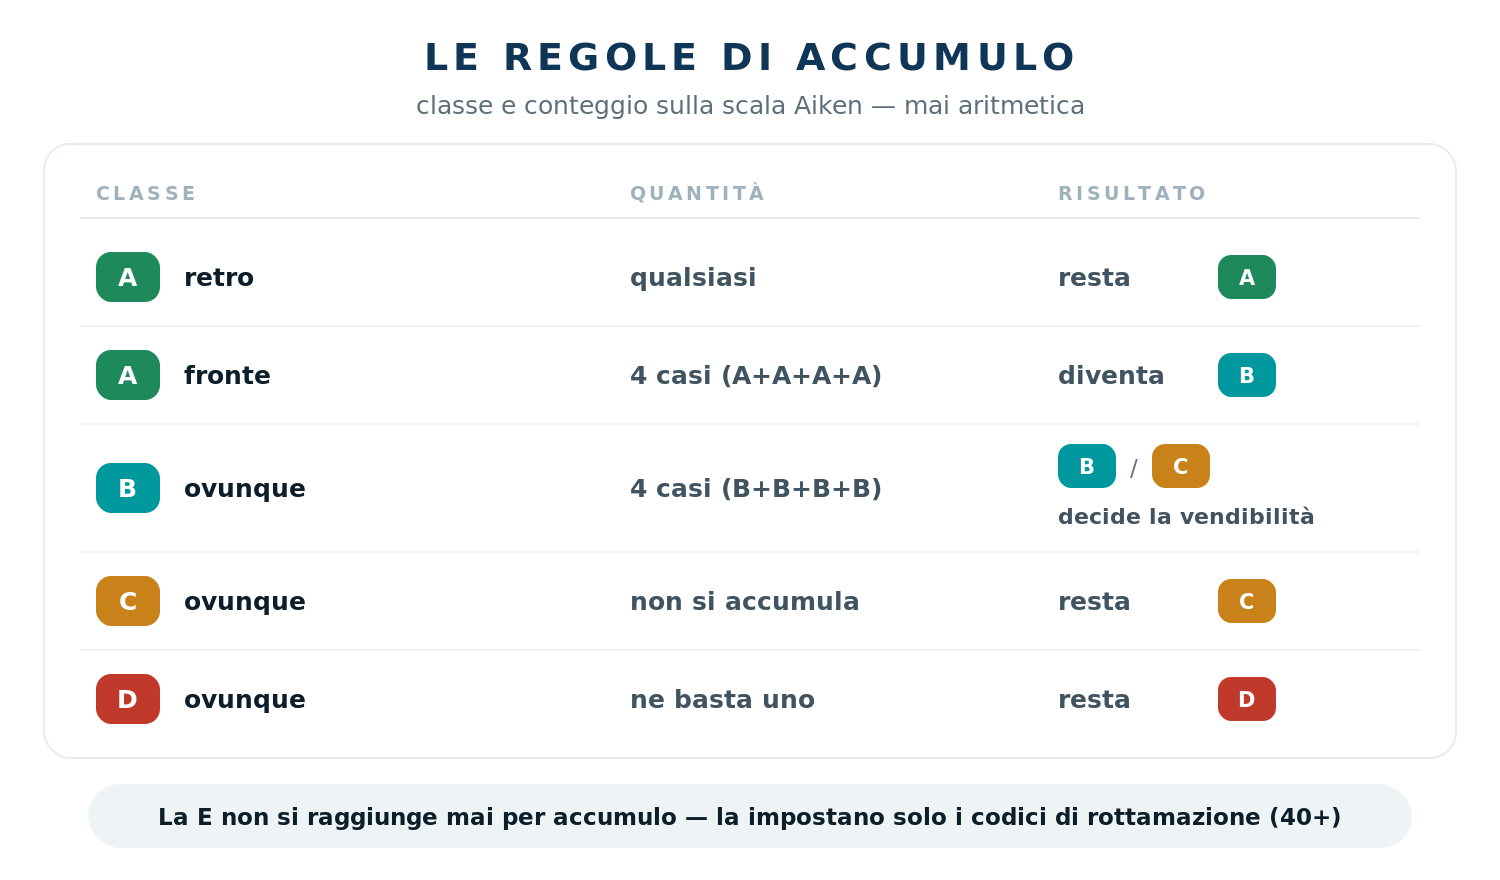
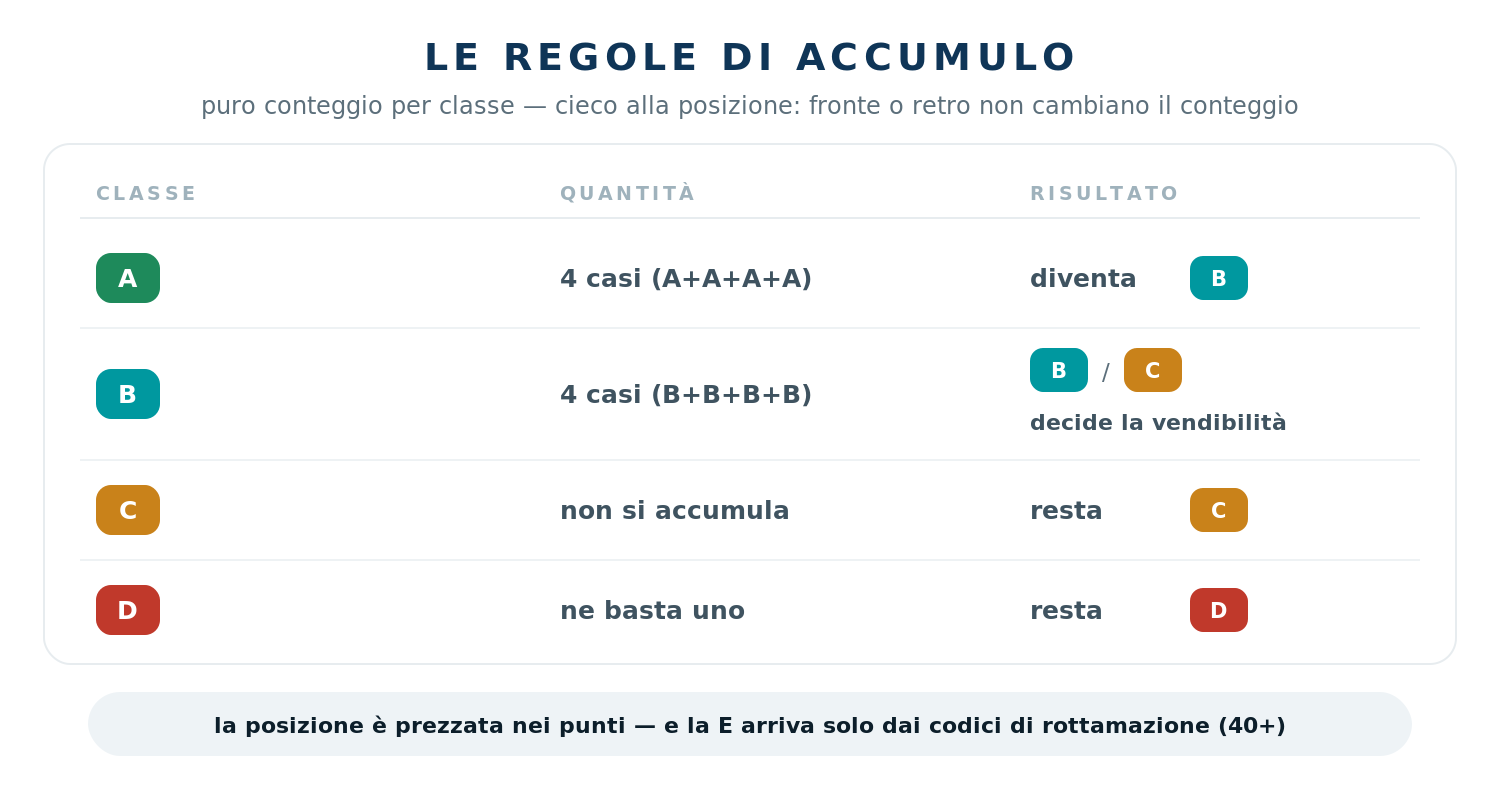
accumulation position-blind: rear rows dropped, A row generalized, example reframed, checklist 'four rows', infographics x3 regenerated

diff --git a/es.html b/es.html
@@ -293,8 +293,8 @@ html.dark{--paper:#121d33;--paperline:#22304d;--ink:#e6ecf7;--mut:#93a3bb;--bg:#
  <div class="card">
   <table>
    <tr><th>Hallazgos</th><th>2023</th><th>G2026</th></tr>
-   <tr><td>Desgaste A, trasera</td><td class="old">sigue A</td><td>sigue A — el micro-desgaste trasero nunca sube el grado, en ninguna cantidad</td></tr>
-   <tr><td>A en el frente</td><td class="old">&times;3 — pasa a B</td><td>&times;4 — pasa a B. Desgaste leve donde mira el usuario, cuatro veces, ya no es "como nuevo"; con tres o menos sigue en A</td></tr>
+   
+   <tr><td>Acumulación de A</td><td class="old">frontal &times;3 — pasa a B; la trasera nunca cuenta</td><td>&times;4 — pasa a B, frontal o trasera por igual; con tres o menos sigue en A. La acumulación es ciega a la posición: frontal o trasera nunca cambian el recuento — la posición ya está valorada en el peso en puntos de cada código.</td></tr>
    <tr><td>Acumulación de B</td><td class="old">&times;3 — mecánicamente C<br><i>nota: "corregir al mejor grado si la impresión general es buena"</i></td><td class="new">&times;4 — la <b>frontera</b> B/C: decide la vendibilidad (con tres B sigue en B). La decisión es del auditor: autónoma, juzgada como lo haría un comprador</td></tr>
    <tr><td>C, en cualquier número</td><td class="old">sigue C</td><td>sigue C — la C nunca se acumula: cinco defectos significativos y uno son ambos C</td></tr>
    <tr><td>una D</td><td class="old">D</td><td>D — con una basta, sea lo que sea lo demás</td></tr>
@@ -308,8 +308,8 @@ html.dark{--paper:#121d33;--paperline:#22304d;--ink:#e6ecf7;--mut:#93a3bb;--bg:#
   <p style="margin:0 0 10px"><b>La unidad:</b> cuatro defectos medios en tapa y reposamanos (clase B cada uno) + los micro-arañazos habituales en la base (desgaste A trasero).</p>
   <table>
    <tr><th></th><th>2023</th><th>G2026</th></tr>
-   <tr><td><b>Desgaste trasero</b></td><td class="old">registrado, ignorado</td><td>registrado, ignorado — igual</td></tr>
-   <tr><td><b>Cuatro B frontales</b></td><td class="old">C mecánica con tres, con la nota aplicada a discreción del auditor</td><td class="new">frontera B/C — el auditor mira la unidad entera como lo haría un comprador</td></tr>
+   <tr><td><b>Micro-arañazos traseros (A)</b></td><td class="old">registrados, ignorados</td><td>registrados — ahora cuentan en el recuento de A, pero muy por debajo de cuatro no cambian nada</td></tr>
+   <tr><td><b>Cuatro B</b></td><td class="old">C mecánica con tres, con la nota aplicada a discreción del auditor</td><td class="new">frontera B/C — el auditor mira la unidad entera como lo haría un comprador</td></tr>
    <tr><td><b>Veredicto</b></td><td class="old">C (típicamente)</td><td class="new">pantalla limpia, teclado sólido, presentable a un brazo de distancia &rarr; <span class="chip cB">B</span>. Realmente cansada &rarr; <span class="chip cC">C</span>. Decide el auditor.</td></tr>
   </table>
   <p class="sub" style="margin:10px 0 0">La misma unidad — pero el lado es ahora una decisión de juicio, no mecánica. Si la decisión está de verdad en equilibrio, los pesos en puntos son el desempate autorizado — y la duda que quede va al manual, después al QC manager.</p>
@@ -371,7 +371,7 @@ html.dark{--paper:#121d33;--paperline:#22304d;--ink:#e6ecf7;--mut:#93a3bb;--bg:#
  <div class="card">
   <ul class="tight">
    <li>&#9744; Retira el vocabulario muerto: <span class="strike">243</span>, <span class="strike">308</span>, la familia <span class="strike">GEN*</span>, los códigos de unidades ópticas.</li>
-   <li>&#9744; Aprende de memoria las cinco filas de la acumulación — resuelven la mayoría de las unidades.</li>
+   <li>&#9744; Aprende de memoria las cuatro filas de la acumulación — ciegas a la posición: clase y recuento, nada más.</li>
    <li>&#9744; Las decisiones de frontera son tuyas: juzga la vendibilidad como un comprador. Una breve nota de Aiken en los casos ajustados ayuda a QC.</li>
    <li>&#9744; Registra siempre las bandas degradadas; escribe <span class="code">BATF1</span> solo en unidades C/D — en unidades limpias, el silencio significa &ge;80%.</li>
    <li>&#9744; Los puntos miden severidad y deshacen empates — nunca eligen el grado.</li>

diff --git a/it.html b/it.html
@@ -293,8 +293,8 @@ html.dark{--paper:#121d33;--paperline:#22304d;--ink:#e6ecf7;--mut:#93a3bb;--bg:#
  <div class="card">
   <table>
    <tr><th>Rilievi</th><th>2023</th><th>G2026</th></tr>
-   <tr><td>Usura A, retro</td><td class="old">resta A</td><td>resta A — la micro-usura posteriore non alza mai il grado, in nessuna quantità</td></tr>
-   <tr><td>A sul fronte</td><td class="old">&times;3 — diventa B</td><td>&times;4 — diventa B. Usura lieve dove l'utente guarda, quattro volte, non è più "come nuovo"; con tre o meno resta A</td></tr>
+   
+   <tr><td>Accumulo di A</td><td class="old">fronte &times;3 — diventa B; il retro non conta mai</td><td>&times;4 — diventa B, fronte o retro allo stesso modo; con tre o meno resta A. L'accumulo è cieco alla posizione: fronte o retro non cambiano mai il conteggio — la posizione è già prezzata nel peso in punti di ogni codice.</td></tr>
    <tr><td>Accumulo di B</td><td class="old">&times;3 — meccanicamente C<br><i>nota: "correggere al grado migliore se l'impressione generale è buona"</i></td><td class="new">&times;4 — il <b>confine</b> B/C: decide la vendibilità (con tre B resta B). La scelta è dell'auditor: autonoma, giudicata come farebbe un acquirente</td></tr>
    <tr><td>C, in qualsiasi numero</td><td class="old">resta C</td><td>resta C — la C non si accumula mai: cinque difetti significativi e uno sono entrambi C</td></tr>
    <tr><td>una D</td><td class="old">D</td><td>D — ne basta una, qualunque altra cosa sia vera</td></tr>
@@ -308,8 +308,8 @@ html.dark{--paper:#121d33;--paperline:#22304d;--ink:#e6ecf7;--mut:#93a3bb;--bg:#
   <p style="margin:0 0 10px"><b>L'unità:</b> quattro difetti medi su coperchio e palmrest (classe B ciascuno) + i soliti micro-graffi sulla base (usura A posteriore).</p>
   <table>
    <tr><th></th><th>2023</th><th>G2026</th></tr>
-   <tr><td><b>Usura posteriore</b></td><td class="old">registrata, ignorata</td><td>registrata, ignorata — uguale</td></tr>
-   <tr><td><b>Quattro B frontali</b></td><td class="old">C meccanica a tre, con la nota applicata a discrezione dell’auditor</td><td class="new">confine B/C — l'auditor guarda l'unità intera come farebbe un acquirente</td></tr>
+   <tr><td><b>Micro-graffi posteriori (A)</b></td><td class="old">registrati, ignorati</td><td>registrati — ora contano nel conteggio delle A, ma ben sotto quattro non cambiano nulla</td></tr>
+   <tr><td><b>Quattro B</b></td><td class="old">C meccanica a tre, con la nota applicata a discrezione dell’auditor</td><td class="new">confine B/C — l'auditor guarda l'unità intera come farebbe un acquirente</td></tr>
    <tr><td><b>Verdetto</b></td><td class="old">C (tipicamente)</td><td class="new">schermo pulito, tastiera solida, presentabile a distanza di braccio &rarr; <span class="chip cB">B</span>. Davvero stanca &rarr; <span class="chip cC">C</span>. Decide l'auditor.</td></tr>
   </table>
   <p class="sub" style="margin:10px 0 0">La stessa unità — ma il lato ora è una scelta di giudizio, non meccanica. Se la scelta è davvero in equilibrio, i pesi in punti sono lo spareggio autorizzato — e il dubbio che resta va al manuale, poi al QC manager.</p>
@@ -371,7 +371,7 @@ html.dark{--paper:#121d33;--paperline:#22304d;--ink:#e6ecf7;--mut:#93a3bb;--bg:#
  <div class="card">
   <ul class="tight">
    <li>&#9744; Ritira il vocabolario morto: <span class="strike">243</span>, <span class="strike">308</span>, la famiglia <span class="strike">GEN*</span>, i codici delle unità ottiche.</li>
-   <li>&#9744; Impara a memoria le cinque righe dell'accumulo — risolvono la maggior parte delle unità.</li>
+   <li>&#9744; Impara a memoria le quattro righe dell'accumulo — cieche alla posizione: classe e conteggio, nient'altro.</li>
    <li>&#9744; Le decisioni di confine sono tue: giudica la vendibilità come un acquirente. Una breve nota Aiken sui casi al limite aiuta il QC.</li>
    <li>&#9744; Registra sempre le fasce degradate; scrivi <span class="code">BATF1</span> solo su unità C/D — su unità pulite, il silenzio significa &ge;80%.</li>
    <li>&#9744; I punti misurano la severità e sciolgono i pareggi — non scelgono mai il grado.</li>

diff --git a/index.html b/index.html
@@ -293,8 +293,8 @@ html.dark{--paper:#121d33;--paperline:#22304d;--ink:#e6ecf7;--mut:#93a3bb;--bg:#
  <div class="card">
   <table>
    <tr><th>Findings</th><th>2023</th><th>G2026</th></tr>
-   <tr><td>A-wear, rear</td><td class="old">stays A</td><td>stays A — rear micro-wear never lifts a grade, no matter how much</td></tr>
-   <tr><td>A on the front</td><td class="old">&times;3 — becomes B</td><td>&times;4 — becomes B. Light wear on what the user looks at, four times over, is no longer like-new; three or fewer stay A</td></tr>
+   
+   <tr><td>A accumulation</td><td class="old">front &times;3 — becomes B; rear never counts</td><td>&times;4 — becomes B, front or rear alike; three or fewer stay A. Accumulation is position-blind: front or rear never changes the count — position is already priced into each code's point weight.</td></tr>
    <tr><td>B accumulation</td><td class="old">&times;3 — mechanically C<br><i>footnote: "correct to the better grade if the overall impression is good"</i></td><td class="new">&times;4 — the B/C <b>border</b>: sellability decides the side (three Bs stay B). The call is the auditor's: autonomous, judged as a buyer would</td></tr>
    <tr><td>C, any number</td><td class="old">stays C</td><td>stays C — C never accumulates: five significant defects and one are both a C</td></tr>
    <tr><td>one D</td><td class="old">D</td><td>D — one is enough, whatever else is true</td></tr>
@@ -308,8 +308,8 @@ html.dark{--paper:#121d33;--paperline:#22304d;--ink:#e6ecf7;--mut:#93a3bb;--bg:#
   <p style="margin:0 0 10px"><b>The unit:</b> four medium blemishes on lid and palmrest (B-class each) + the usual micro-scratches on the base (rear A-wear).</p>
   <table>
    <tr><th></th><th>2023</th><th>G2026</th></tr>
-   <tr><td><b>Rear wear</b></td><td class="old">recorded, ignored</td><td>recorded, ignored — same</td></tr>
-   <tr><td><b>Four front Bs</b></td><td class="old">mechanical C at three, with the footnote applied at the auditor’s discretion</td><td class="new">B/C border — the auditor looks at the whole unit as a buyer would</td></tr>
+   <tr><td><b>Rear micro-scratches (A)</b></td><td class="old">recorded, ignored</td><td>recorded — they count toward the A tally now, but far below four they change nothing</td></tr>
+   <tr><td><b>Four Bs</b></td><td class="old">mechanical C at three, with the footnote applied at the auditor’s discretion</td><td class="new">B/C border — the auditor looks at the whole unit as a buyer would</td></tr>
    <tr><td><b>Verdict</b></td><td class="old">C (typically)</td><td class="new">clean screen, solid keyboard, presentable at arm's length &rarr; <span class="chip cB">B</span>. Genuinely tired &rarr; <span class="chip cC">C</span>. The auditor decides.</td></tr>
   </table>
   <p class="sub" style="margin:10px 0 0">Same unit — but the side is now a judged call, not mechanics. If the call feels genuinely even, the point weights are the sanctioned tiebreaker — and lingering doubt goes to the manual, then to the QC manager.</p>
@@ -371,7 +371,7 @@ html.dark{--paper:#121d33;--paperline:#22304d;--ink:#e6ecf7;--mut:#93a3bb;--bg:#
  <div class="card">
   <ul class="tight">
    <li>&#9744; Retire the dead vocabulary: <span class="strike">243</span>, <span class="strike">308</span>, the <span class="strike">GEN*</span> family, the optical-drive codes.</li>
-   <li>&#9744; Learn the five accumulation rows cold — they settle most units.</li>
+   <li>&#9744; Learn the four accumulation rows cold — position-blind, class and count only.</li>
    <li>&#9744; Border calls are yours: judge sellability as a buyer would. A short Aiken note on close calls helps QC.</li>
    <li>&#9744; Record degraded battery bands on every unit; write <span class="code">BATF1</span> only on C/D units — on clean units, silence means &ge;80%.</li>
    <li>&#9744; Points gauge severity and break ties — they never pick the grade.</li>
